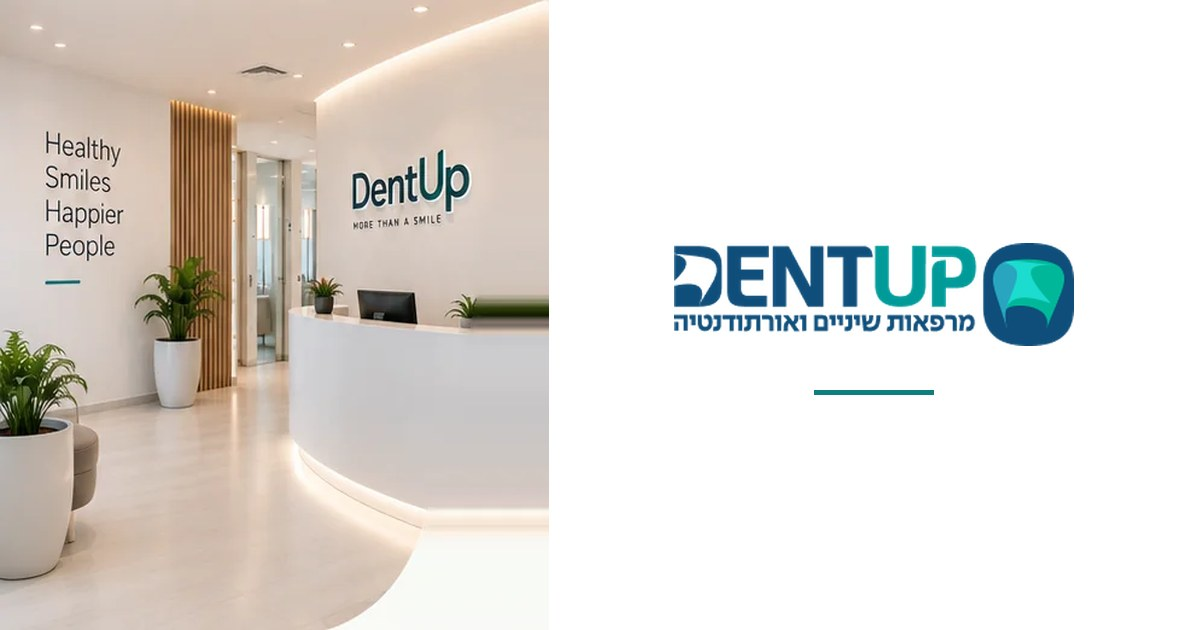
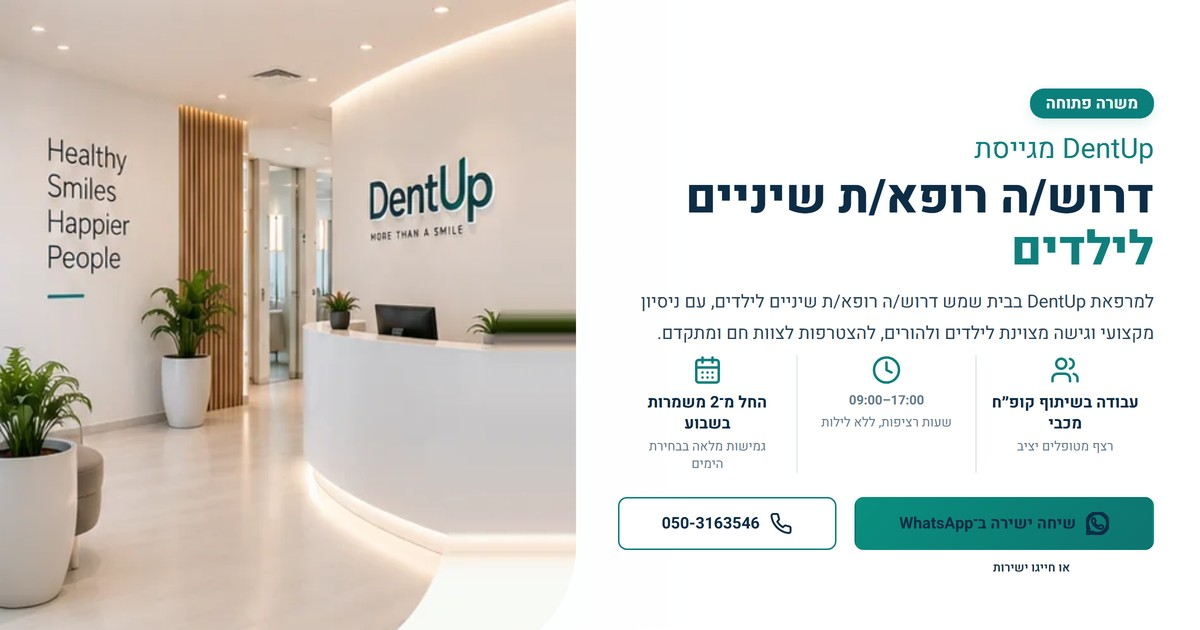
@ INC-3142: תמונת השיתוף = ה-Hero של הדף עצמו
לבקשת המשתמשת. במקום צילום המרפאה בלבד, התצוגה בוואטסאפ מציגה את
מקטע הפתיחה המלא — כותרת, שלוש עובדות המשרה וכפתורי הפנייה.

נוצר ברינדור של ה-Hero מתוך הדף החי (Chrome headless, 2x ואז הקטנה
ל-1200x630) ולא בהרכבה ידנית, כדי שהתצוגה תהיה זהה למה שהמועמד רואה
כשהוא נכנס — ותישאר נכונה אם הטקסט ישתנה.

@

diff --git a/public/dentup/index.html b/public/dentup/index.html
@@ -17,7 +17,7 @@
 <meta property="og:image" content="https://www.alldent.co.il/dentup/share.jpg">
 <meta property="og:image:width" content="1200">
 <meta property="og:image:height" content="630">
-<meta property="og:image:alt" content="מתחם DentUp — דלפק הקבלה">
+<meta property="og:image:alt" content="DentUp מגייסת רופא/ת שיניים לילדים — בית שמש">
 <meta name="twitter:card" content="summary_large_image">
 <meta name="twitter:title" content="דרוש/ה רופא/ת שיניים לילדים · DentUp בית שמש">
 <meta name="twitter:description" content="מתחם המומחים DentUp בקניון השדרה, רמת בית שמש א׳, מגייס רופא/ת שיניים לילדים. משרה חלקית משתי משמרות בשבוע, 09:00–17:00, טכנולוגיית קצה ומעבדה פנימית. פנייה ישירה למיכל.">
